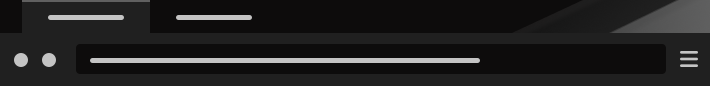
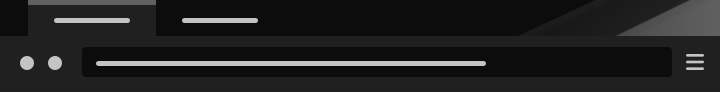
Add MC10years theme

diff --git a/README.md b/README.md
@@ -25,10 +25,26 @@ Thème sombre pour votre navigateur Mozilla Firefox.
 
 ---
 
-## ![icon](/blueBlur/icons/icon32.png) Thème BlueBlur v0.4.4-beta
+## ![icon](/MC10years/icons/icon32.png) Thème Minecraft 10 ans v0.0.1
+
+Thème Minecraft pour votre navigateur Mozilla Firefox inspiré des images parue pour les 10ans.
+
+> [Téléchargement  sur le site Addons.Mozilla.org](https://addons.mozilla.org/fr/firefox/addon/minecraft-10-years-theme/)
+
+> [Téléchargement de la version beta]()
+
+## Aperçu
+
+![BlueBlur](/screenshot/moztheme_MC10years.png)
+![BlueBlur](/screenshot/MC10years_screenfull.png)
+
+---
+
+## ![icon](/blueBlur/icons/icon32.png) Thème BlueBlur v0.0.1
 
 Thème bleu claire pour votre navigateur Mozilla Firefox.
 
+> [Téléchargement  sur le site Addons.Mozilla.org](https://addons.mozilla.org/fr/firefox/addon/blueblur-nesios/)
 
 > [Téléchargement de la version beta](https://github.com/N3siOS/myMozillaTheme/releases/download/v0.4.4/blueblur-0.4.4-an+fx.xpi)
 
